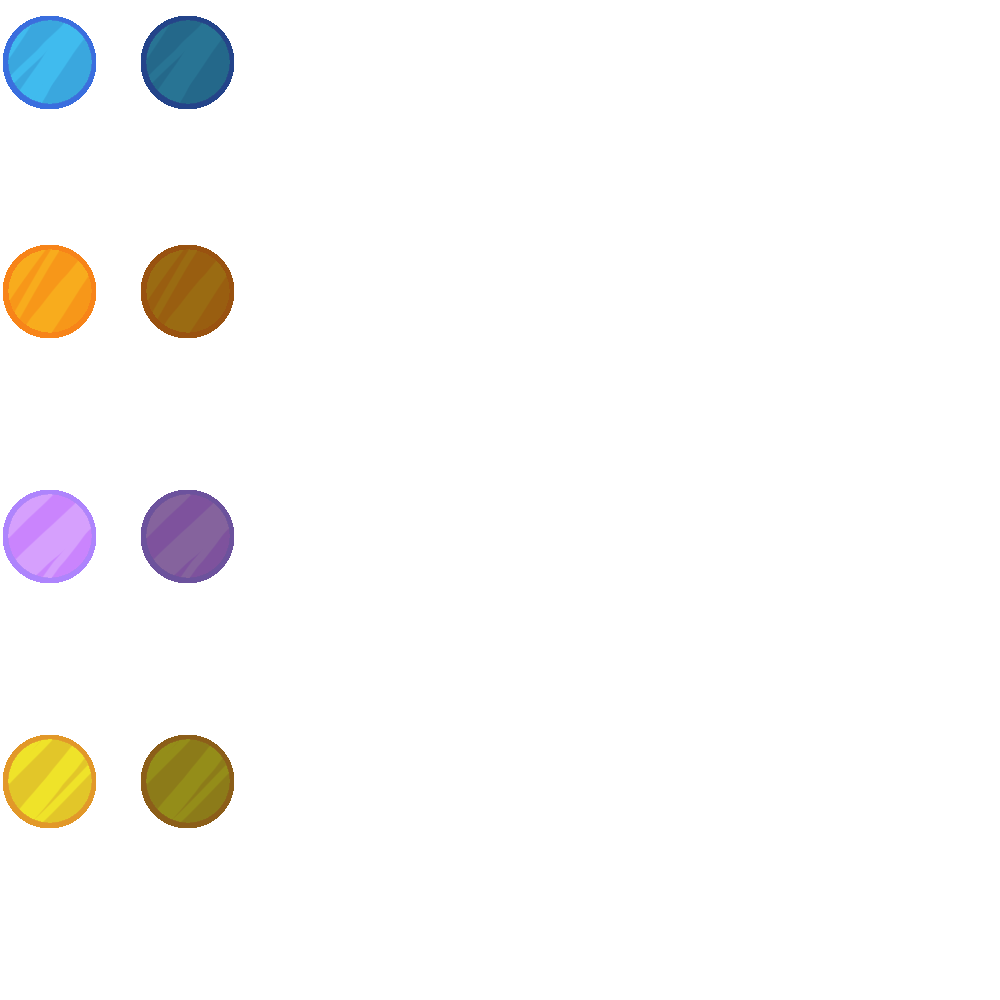
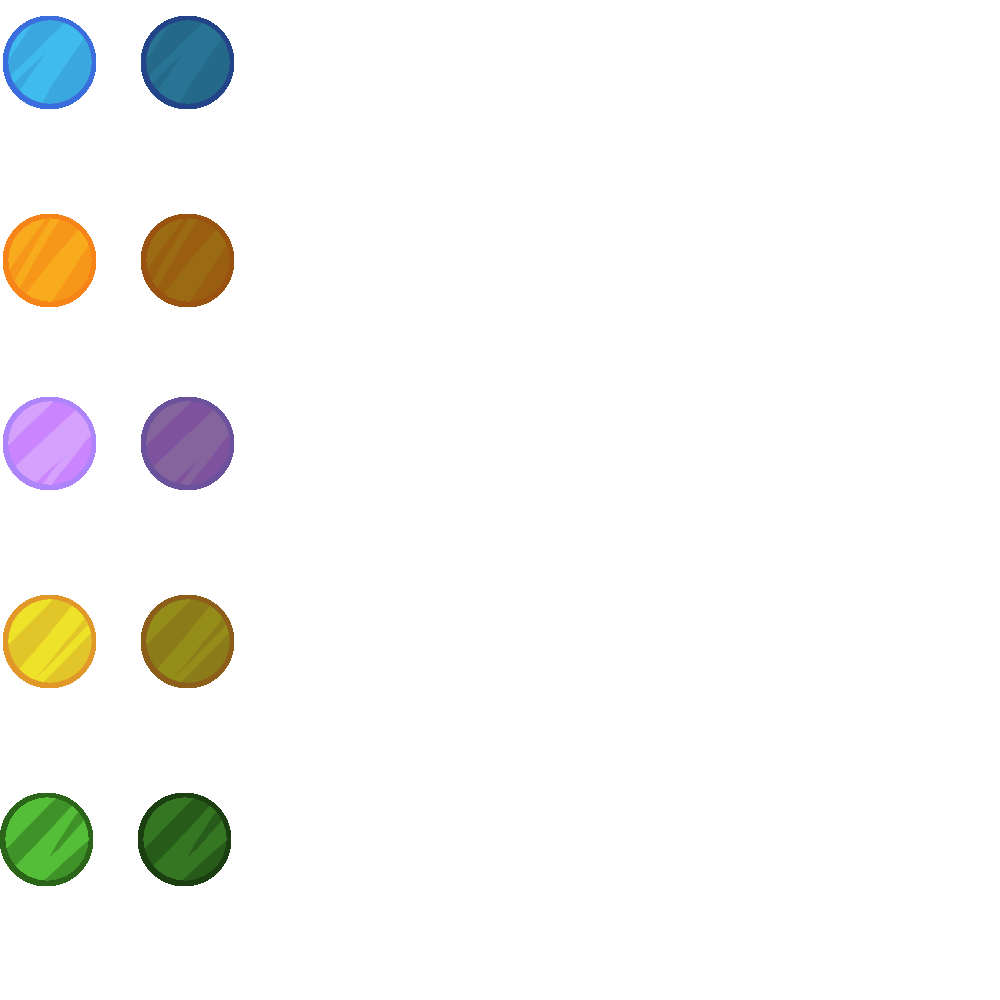
green plates and spikes, fixed sizing

diff --git a/Puzzle/src/Puzzle.java b/Puzzle/src/Puzzle.java
@@ -296,16 +296,19 @@ public class Puzzle extends Application {
 		isCollision = true;
 	}
 	public void launchPlayer(Dir direction) {
+		int millis = 50;
 		if(direction.toString().equals("left")) {
 			//zack.setDirection(direction, false);
-			for(int i = 1; i < 15; i++) 
+			for(int i = 1; i < 15; i++) {
 				zack.setLocation(zack.getX()-i,zack.getY());
+			}
 			
 		}
 		if(direction.toString().equals("right")) {
 			//zack.setDirection(direction, false);
-			for(int i = 1; i < 15; i++)
+			for(int i = 1; i < 15; i++) {
 				zack.setLocation(zack.getX()+i,zack.getY()); 
+			}
 		}
 	}
 	public void activateColor(Col color) {

diff --git a/Puzzle/src/Col.java b/Puzzle/src/Col.java
@@ -18,6 +18,9 @@ class Col {
         case "yellow":
 			c = 3;
 	      	break; 
+        case "green":
+        	c = 4;
+        	break;
 		}
 	}
 	
@@ -34,6 +37,8 @@ class Col {
         	return "purple";
         case 3:
 			return "yellow";
+        case 4:
+			return "green";
 		}
 		return "none";
 	}
@@ -42,4 +47,5 @@ class Col {
 	static final Col ORANGE = new Col(1);
 	static final Col PURPLE = new Col(2);
 	static final Col YELLOW = new Col(3);
+	static final Col GREEN = new Col(4);
 }

diff --git a/Puzzle/src/circlePlate.java b/Puzzle/src/circlePlate.java
@@ -4,7 +4,7 @@ import javafx.scene.image.Image;
 
 public class circlePlate extends Element{
 	
-	private final static Image CPLATE = new Image(PuzzleUtil.FILE_PATH_RES+"circle_plates.png", false);
+	private final static Image CPLATE = new Image(PuzzleUtil.FILE_PATH_RES+"circle_plates_2.png", false);
 	private Col color;
 	private int status;
 	private Puzzle puzzle;

diff --git a/Puzzle/src/Spike.java b/Puzzle/src/Spike.java
@@ -5,7 +5,7 @@ import javafx.scene.paint.Color;
 
 public class Spike extends Element {
 	
-	private final static Image SPIKE = new Image(PuzzleUtil.FILE_PATH_RES+"spike.png", false);
+	private final static Image SPIKE = new Image(PuzzleUtil.FILE_PATH_RES+"spike_2.png", false);
 	private int status;
 	private char orientation;
 	private Col color;
